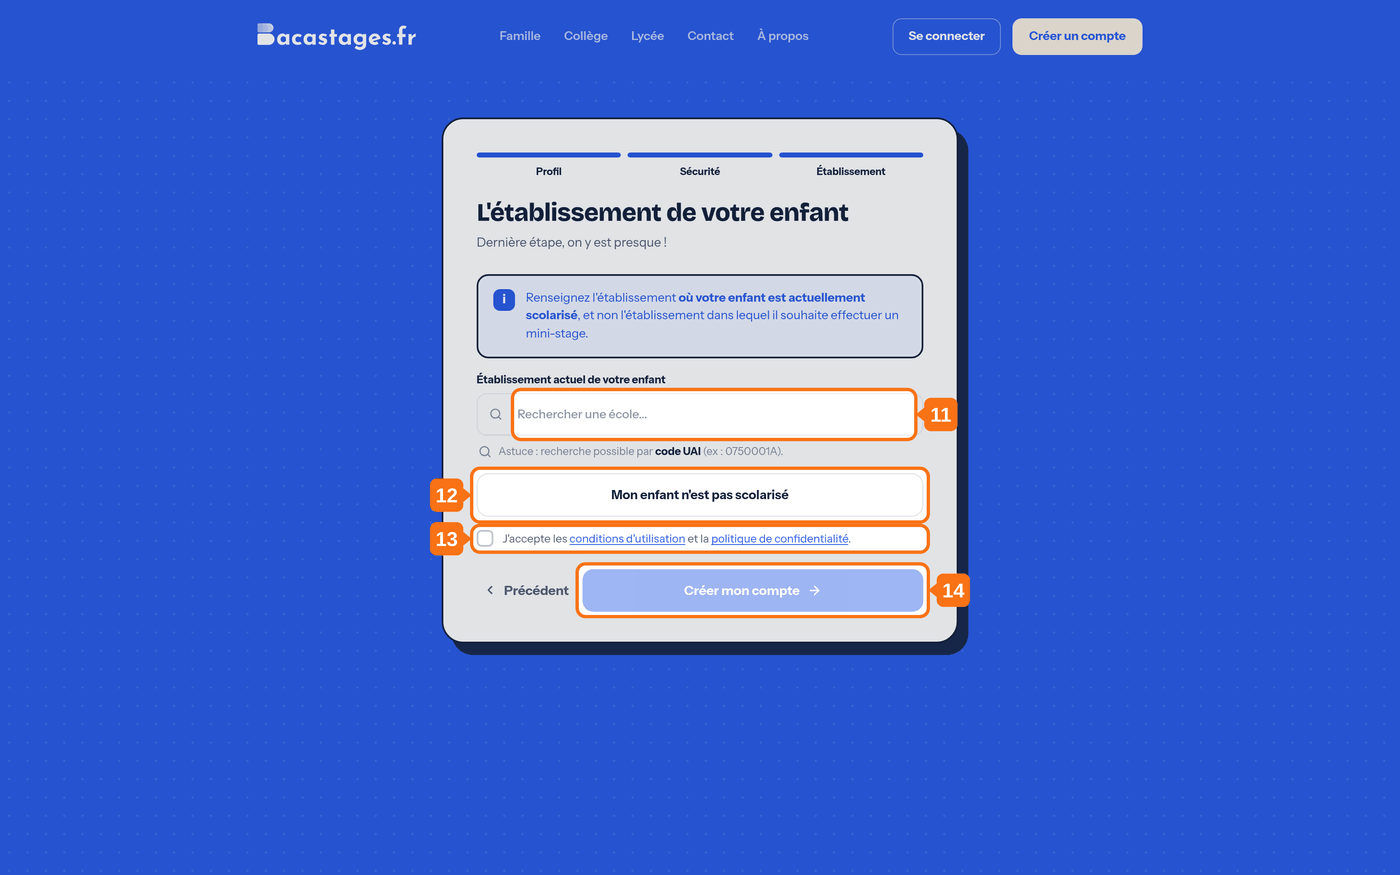
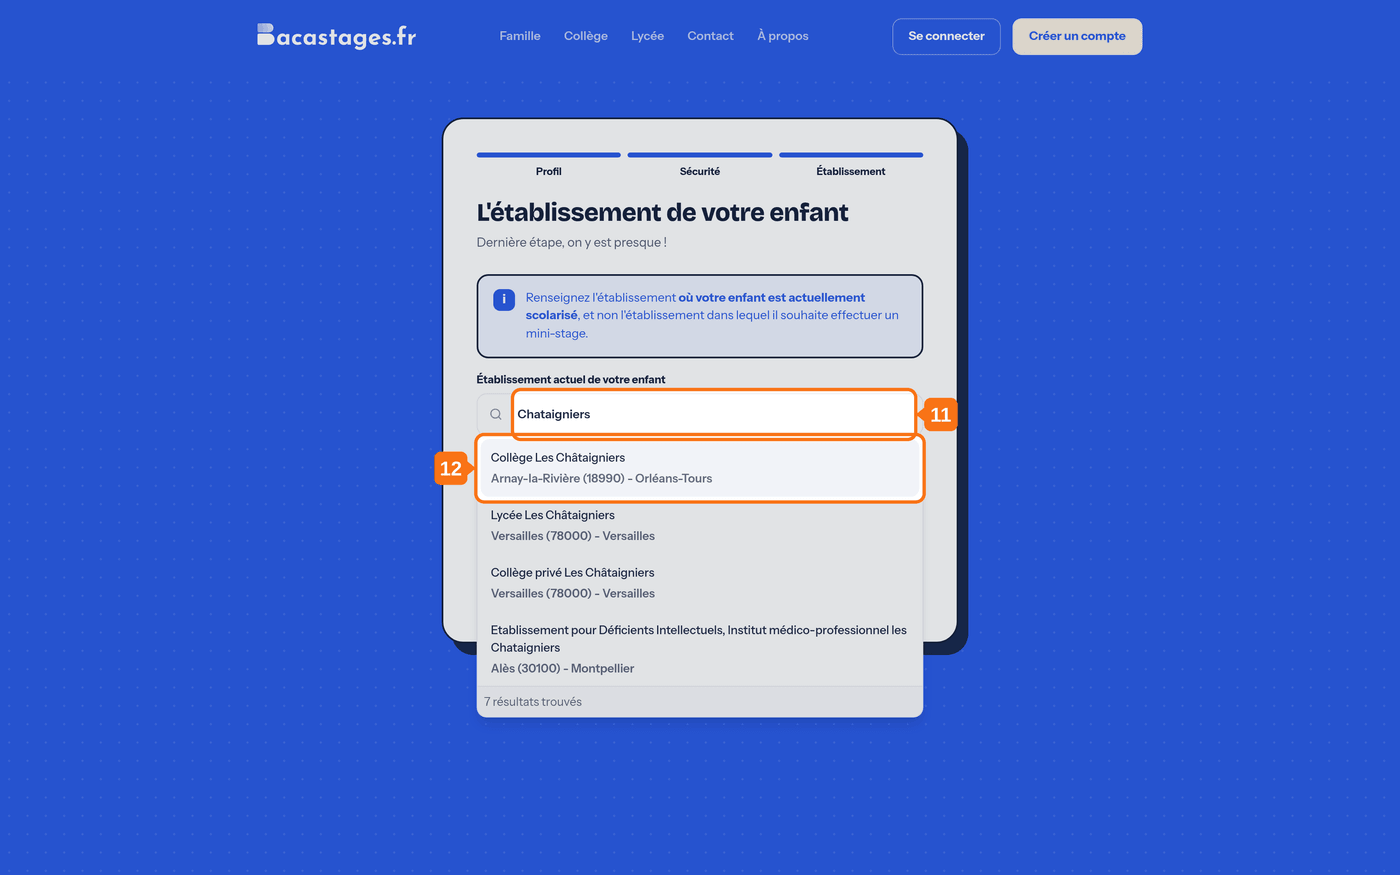
docs(premiers-pas): la recherche d'établissement se voit enfin, et elle cache une étape
Le correctif de `publicRoutes` (`cb7ac3c`, rapatrié dans le worktree) rend la
recherche d'établissement joignable sans compte. Les trois articles de création
de compte montraient jusqu'ici un champ vide, faute de pouvoir montrer autre
chose. Ils montrent maintenant la liste de suggestions et l'établissement
retenu — l'étape que le lecteur a le plus besoin de voir.

**Et elle a révélé une étape qu'aucun des trois ne mentionnait.** Sélectionner
un établissement ouvre une fenêtre « Vérifiez votre sélection », qui redemande
si c'est bien le bon — avec sa propre question selon le parcours : « votre
établissement d'origine (celui qui inscrit les élèves) » pour un Compte
Inscription, « l'établissement où votre enfant est actuellement scolarisé »
pour une famille.

Le parcours lycée, lui, n'en a pas : il passe directement au consentement. La
dissymétrie se comprend — c'est du côté des collèges et des familles que la
confusion entre établissement d'origine et établissement d'accueil se produit,
et l'écran le dit en toutes lettres.

Les étapes suivantes sont renumérotées en conséquence. Les articles gagnent
aussi ce que la manipulation apprend : les suggestions mettent une seconde à
venir, la ville et l'académie servent à trancher entre homonymes, et
« Modifier » ou la croix permettent de revenir sur un choix.

Changed region(s): [[0.3071, 0.4629, 0.7064, 0.8331]]

diff --git a/articles/premiers-pas/parents-familles-premiers-pas/1-comment-creer-un-compte-parent-sur-bacastages-fr.md b/articles/premiers-pas/parents-familles-premiers-pas/1-comment-creer-un-compte-parent-sur-bacastages-fr.md
@@ -75,29 +75,43 @@ C'est elle qui vous servira d'identifiant pour vous connecter.
 
 ---
 
-## 11. Indiquer l'établissement actuel de votre enfant
+## 11. Chercher l'établissement actuel de votre enfant
 
-Recherchez-le par son **nom** ou par son **code UAI**, puis sélectionnez-le dans la liste.
+Saisissez son **nom** ou son **code UAI**. Les suggestions arrivent au bout d'une seconde environ.
 
 > C'est l'établissement où votre enfant est **scolarisé aujourd'hui** — son collège, le plus souvent — et **non** le lycée où il souhaite faire un mini-stage.
 
-## 12. Si votre enfant n'est pas scolarisé
+## 12. Le sélectionner dans la liste
+
+Cliquez sur la bonne ligne : le nom, la ville et l'académie vous permettent de trancher entre deux homonymes.
+
+![La recherche et sa liste de suggestions](../../../assets/premiers-pas/parents-familles-premiers-pas/1-comment-creer-un-compte-parent-sur-bacastages-fr/5-l-etablissement-de-votre-enfant.png)
+
+## 13. Confirmer votre choix
+
+Une fenêtre s'ouvre — **« Vérifiez votre sélection »** — et vous redemande : *« Est-ce bien l'établissement où votre enfant est actuellement scolarisé ? »*
+
+Cliquez sur **« Oui, c'est le bon établissement »**, ou sur **« Non, changer d'établissement »** pour relancer la recherche.
+
+![La fenêtre « Vérifiez votre sélection »](../../../assets/premiers-pas/parents-familles-premiers-pas/1-comment-creer-un-compte-parent-sur-bacastages-fr/6-confirmer-l-etablissement.png)
+
+## 14. Si votre enfant n'est pas scolarisé
 
 Cliquez sur **« Mon enfant n'est pas scolarisé »**. Vous n'avez alors pas d'établissement à renseigner.
 
-## 13. Accepter les conditions d'utilisation
+## 15. Accepter les conditions d'utilisation
 
-Cochez la case **« J'accepte les conditions d'utilisation et la politique de confidentialité »**. Sans elle, le compte ne peut pas être créé.
+Cochez la case **« J'accepte les conditions d'utilisation et la politique de confidentialité »**. Sans elle, le bouton reste inactif.
 
-## 14. Créer votre compte
+## 16. Créer votre compte
 
 Cliquez sur **« Créer mon compte »**.
 
-![Le volet « Établissement » : établissement actuel, « Mon enfant n'est pas scolarisé », consentement](../../../assets/premiers-pas/parents-familles-premiers-pas/1-comment-creer-un-compte-parent-sur-bacastages-fr/5-l-etablissement-de-votre-enfant.png)
+![L'établissement retenu, la case cochée et le bouton actif](../../../assets/premiers-pas/parents-familles-premiers-pas/1-comment-creer-un-compte-parent-sur-bacastages-fr/7-accepter-et-creer-le-compte.png)
 
 ---
 
-## 15. Vérifier votre adresse email
+## 17. Vérifier votre adresse email
 
 Ouvrez votre boîte de réception et cliquez sur le **lien de vérification** contenu dans l'email de Bacastages. Sans cette étape, votre compte reste inactif.
 

diff --git a/articles/premiers-pas/college-lycee-cio/1-comment-creer-un-compte-sur-bacastages-fr.md b/articles/premiers-pas/college-lycee-cio/1-comment-creer-un-compte-sur-bacastages-fr.md
@@ -73,31 +73,45 @@ Utilisez votre **adresse professionnelle ou académique** : l'écran la réclame
 
 ---
 
-## 11. Trouver votre établissement
+## 11. Chercher votre établissement
 
-Recherchez-le par son **nom** ou par son **code UAI**, puis sélectionnez-le dans la liste.
+Saisissez son **nom** ou son **code UAI**. Les suggestions arrivent au bout d'une seconde environ.
 
-> **Renseignez votre propre établissement**, et non un lycée qui accueille des mini-stages.
+## 12. Le sélectionner dans la liste
 
-## 12. Accepter les conditions d'utilisation
+Cliquez sur la bonne ligne : le nom, la ville et l'académie vous permettent de trancher entre deux homonymes.
 
-Cochez la case **« J'accepte les conditions d'utilisation et la politique de confidentialité »**. Sans elle, le compte ne peut pas être créé.
+![La recherche et sa liste de suggestions](../../../assets/premiers-pas/college-lycee-cio/1-comment-creer-un-compte-sur-bacastages-fr/5-trouver-votre-etablissement.png)
 
-## 13. Créer votre compte
+## 13. Confirmer votre choix
+
+Une fenêtre s'ouvre — **« Vérifiez votre sélection »** — et vous redemande : *« Est-ce bien votre établissement d'origine (celui qui inscrit les élèves) ? »*
+
+Cliquez sur **« Oui, c'est le bon établissement »**, ou sur **« Non, changer d'établissement »** pour relancer la recherche.
+
+> **C'est la confusion que cette fenêtre existe pour éviter.** Un Compte Inscription déclare l'établissement d'où **partent** les élèves, jamais celui qui les accueille.
+
+![La fenêtre « Vérifiez votre sélection »](../../../assets/premiers-pas/college-lycee-cio/1-comment-creer-un-compte-sur-bacastages-fr/6-confirmer-votre-etablissement.png)
+
+## 14. Accepter les conditions d'utilisation
+
+Cochez la case **« J'accepte les conditions d'utilisation et la politique de confidentialité »**. Sans elle, le bouton reste inactif.
+
+## 15. Créer votre compte
 
 Cliquez sur **« Créer mon compte »**.
 
-![Le volet « Établissement » : recherche, consentement, bouton « Créer mon compte »](../../../assets/premiers-pas/college-lycee-cio/1-comment-creer-un-compte-sur-bacastages-fr/5-relier-votre-etablissement.png)
+![L'établissement retenu, la case cochée et le bouton actif](../../../assets/premiers-pas/college-lycee-cio/1-comment-creer-un-compte-sur-bacastages-fr/7-accepter-et-creer-le-compte.png)
 
 ---
 
-## 14. Activer votre compte
+## 16. Activer votre compte
 
 Une fenêtre de confirmation s'affiche. **Restez sur cette page.**
 
 Ouvrez votre boîte mail, puis l'email de Bacastages, et cliquez sur le lien d'activation qu'il contient.
 
-## 15. Confirmer votre adresse
+## 17. Confirmer votre adresse
 
 Le lien vous ramène sur Bacastages. Cliquez sur **« Confirmer mon email »**.
 

diff --git a/articles/premiers-pas/ddf-atddf-bde-personnel-de-direction/1-comment-creer-un-compte-sur-bacastages-fr.md b/articles/premiers-pas/ddf-atddf-bde-personnel-de-direction/1-comment-creer-un-compte-sur-bacastages-fr.md
@@ -85,31 +85,39 @@ Utilisez votre **adresse professionnelle ou académique** : l'écran la réclame
 
 ---
 
-## 13. Trouver votre lycée
+## 13. Chercher votre lycée
 
-Recherchez-le par son **nom** ou par son **code UAI**, puis sélectionnez-le dans la liste.
+Saisissez son **nom** ou son **code UAI**. Les suggestions arrivent au bout d'une seconde environ.
+
+## 14. Le sélectionner dans la liste
+
+Cliquez sur la bonne ligne : le nom de l'établissement, sa ville et son académie vous permettent de trancher entre deux homonymes.
 
 > **Renseignez votre propre établissement**, et non un lycée qui accueille des mini-stages.
 
-## 14. Accepter les conditions d'utilisation
+![La recherche et sa liste de suggestions](../../../assets/premiers-pas/ddf-atddf-bde-personnel-de-direction/1-comment-creer-un-compte-sur-bacastages-fr/6-trouver-votre-lycee.png)
 
-Cochez la case **« J'accepte les conditions d'utilisation et la politique de confidentialité »**. Sans elle, le compte ne peut pas être créé.
+## 15. Accepter les conditions d'utilisation
 
-## 15. Créer votre compte
+Cochez la case **« J'accepte les conditions d'utilisation et la politique de confidentialité »**. Sans elle, le bouton reste inactif.
+
+## 16. Créer votre compte
 
 Cliquez sur **« Créer mon compte »**.
 
-![Le volet « Établissement » : recherche, consentement, bouton « Créer mon compte »](../../../assets/premiers-pas/ddf-atddf-bde-personnel-de-direction/1-comment-creer-un-compte-sur-bacastages-fr/6-relier-votre-etablissement.png)
+> Vous pouvez encore changer d'établissement : **« Modifier »** relance la recherche, la croix efface la sélection.
+
+![L'établissement retenu, la case cochée et le bouton actif](../../../assets/premiers-pas/ddf-atddf-bde-personnel-de-direction/1-comment-creer-un-compte-sur-bacastages-fr/7-accepter-et-creer-le-compte.png)
 
 ---
 
-## 16. Activer votre compte
+## 17. Activer votre compte
 
 Une fenêtre de confirmation s'affiche. **Restez sur cette page.**
 
 Ouvrez votre boîte mail, puis l'email de Bacastages, et cliquez sur le lien d'activation.
 
-## 17. Confirmer votre adresse
+## 18. Confirmer votre adresse
 
 Le lien vous ramène sur Bacastages. Cliquez sur **« Confirmer mon email »**.
 
